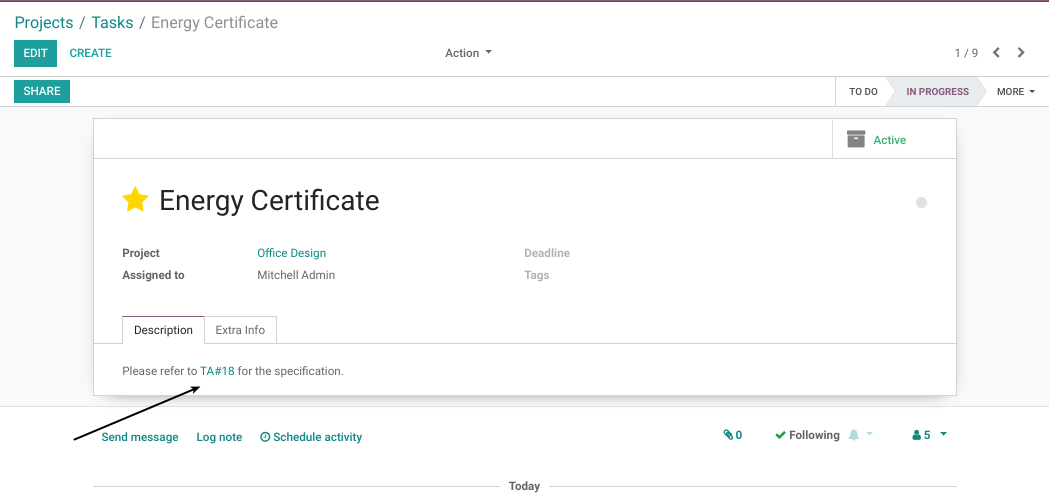
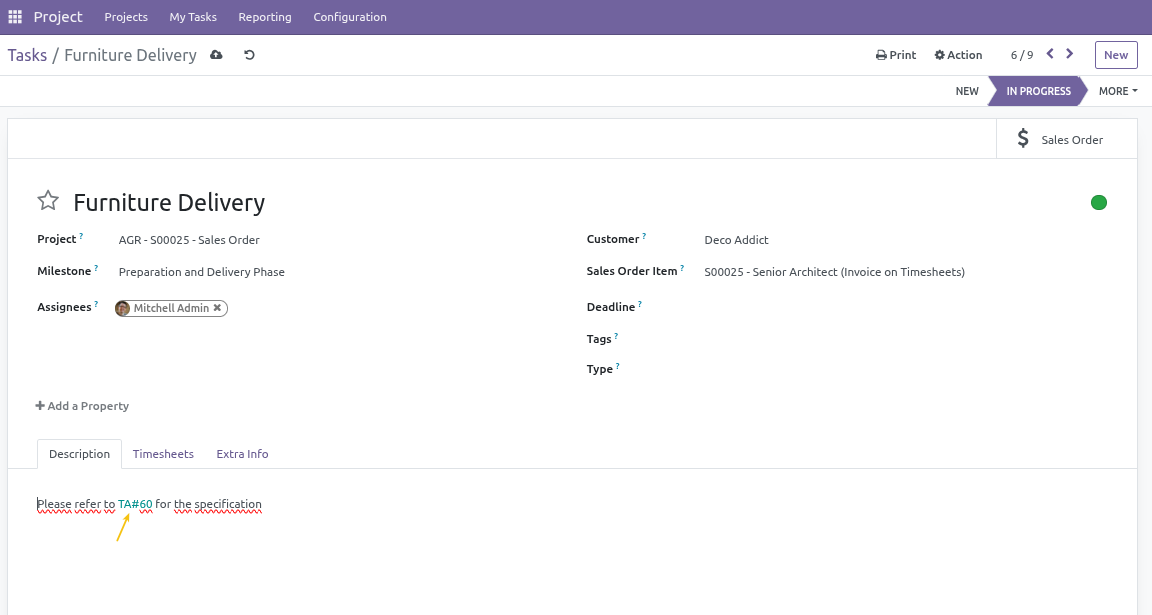
[16.0][MIG] project_task_link

diff --git a/project_task_link/tools/utils.py b/project_task_link/tools/utils.py
@@ -2,7 +2,7 @@
 # License LGPL-3.0 or later (http://www.gnu.org/licenses/lgpl).
 
 from lxml import etree
-from odoo.addons.project_task_reference.tools.reference import TaskReference
+from odoo.addons.project_task_reference.reference import TaskReference
 from typing import List
 
 
@@ -56,6 +56,5 @@ def get_html_with_task_links(env: "Environment", html: str) -> str:
     for node in nodes_not_inside_link:
         _add_task_links_to_xml_node(env, node)
 
-    return etree.tostring(
-        html_tree, pretty_print=True, method="html", encoding="unicode"
-    )
+    res = etree.tostring(html_tree, pretty_print=True, method="HTML")
+    return res.decode("utf-8")

diff --git a/project_task_link/__manifest__.py b/project_task_link/__manifest__.py
@@ -12,12 +12,6 @@
     "summary": "Dynamically add links to tasks in the web interface.",
     "depends": [
         "project_task_reference",
-        "web_editor",
     ],
-    "assets": {
-        "web.assets_backend": [
-            "/project_task_link/static/src/js/html_field.js",
-        ],
-    },
     "installable": True,
 }

diff --git a/project_task_link/tools/__init__.py b/project_task_link/tools/__init__.py
@@ -1,0 +1,4 @@
+# Copyriht 2022-today Numigi (tm) and all its contributors (https://bit.ly/numigiens)
+# License LGPL-3.0 or later (http://www.gnu.org/licenses/lgpl).
+
+from . import utils

diff --git a/project_task_link/README.rst b/project_task_link/README.rst
@@ -8,10 +8,10 @@ Overview
 --------
 As member of the group ``Project / User``, I go the form view of a task.
 
-.. image:: static/description/task_formpng.png
+.. image:: static/description/task_form.png
 
-In the description, I need to reference the task ID=18.
-Therefore, I write ``TA#18`` in the description.
+In the description, I need to reference the task ID=60.
+Therefore, I write ``TA#60`` in the description.
 
 .. image:: static/description/task_form_edit_mode.png
 
